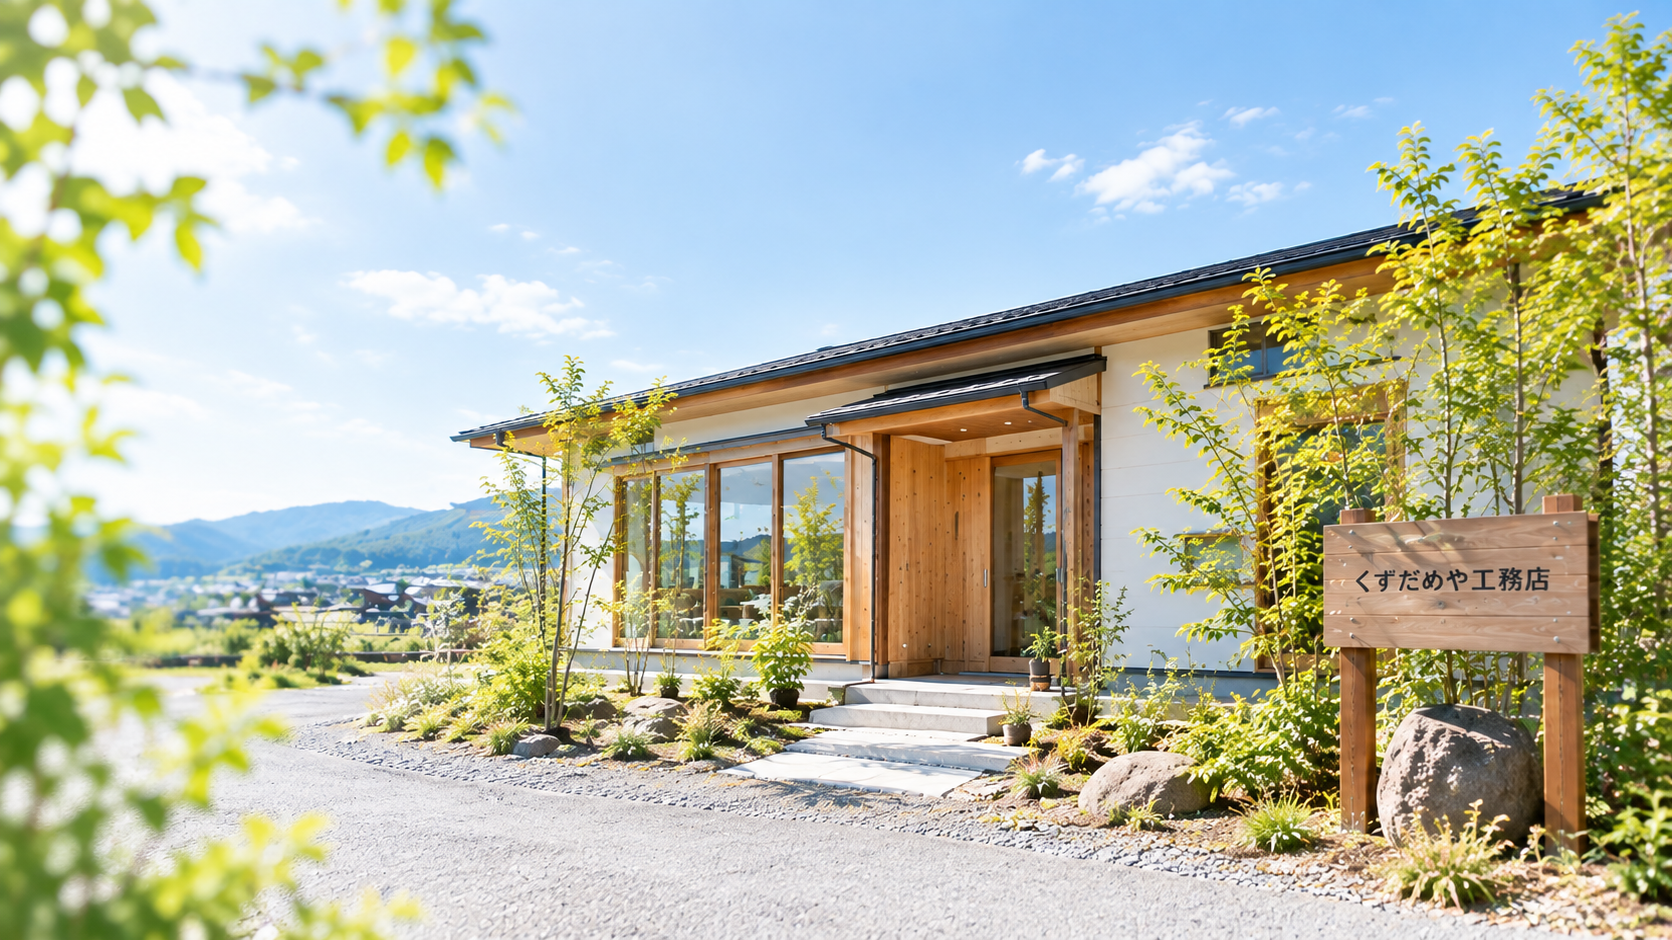
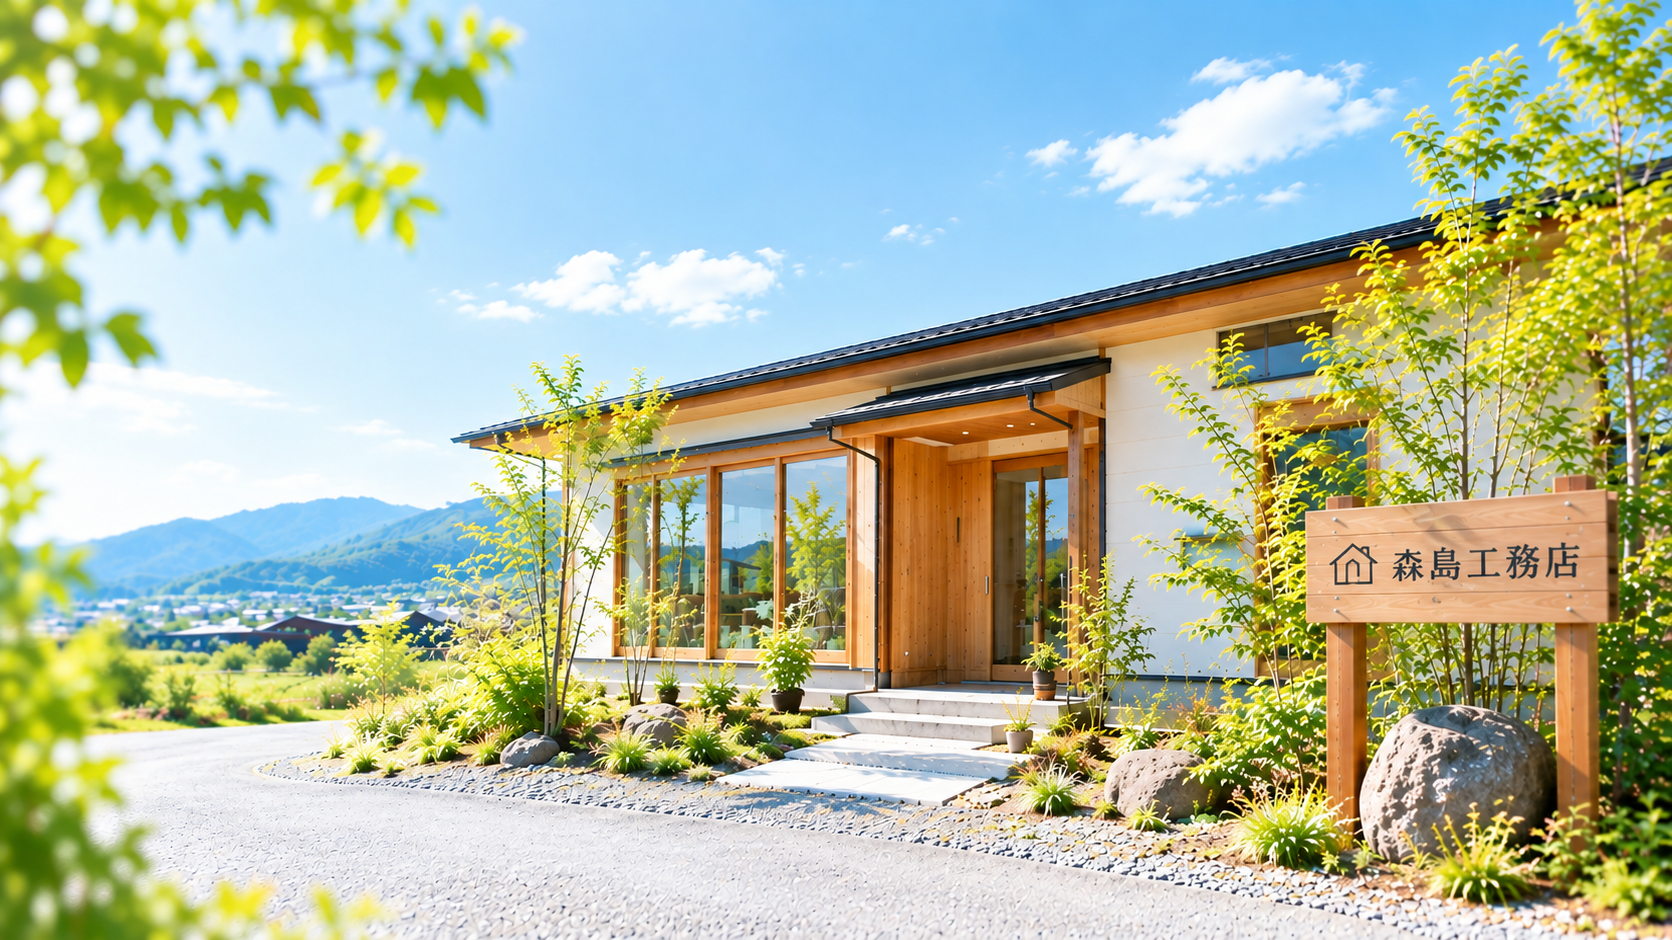
Add files via upload

diff --git a/company.html b/company.html
@@ -34,7 +34,7 @@
 
   <main>
     <div class="page-head">
-      <img class="page-head__image" src="images/photograph2.jpg" alt="木の温もりを感じる住宅と庭" width="1200" height="675">
+      <img class="page-head__image" src="images/photograph2.png" alt="木の温もりを感じる住宅と庭" width="1200" height="675">
       <div class="container page-head__inner">
         <p class="page-head__sub">COMPANY</p>
         <h1 class="page-head__title">会社概要</h1>
